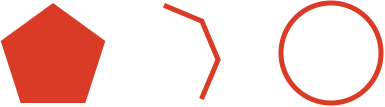
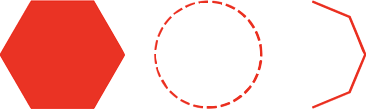
update polygon

diff --git a/src/js/diagram/DiagramPrimitives/DiagramPrimitives.js b/src/js/diagram/DiagramPrimitives/DiagramPrimitives.js
@@ -487,7 +487,6 @@ export type OBJ_LineStyle = {
  *
  * @property {number} [sides] (`4`)
  * @property {number} [radius] (`1`)
- * @property {number} [width] line width - line will be drawn on inside of radius (`0.01`)
  * @property {number} [rotation] shape rotation during vertex definition
  * (different to a rotation step in a trasform) (`0`)
  * @property {TypeParsablePoint} [offset] shape center offset from origin
@@ -501,63 +500,68 @@ export type OBJ_LineStyle = {
  * center. This is different to position or transform as these translate the
  * vertices on each draw. (`[0, 0]`)
  * @property {OBJ_LineStyle} [line] line style options
- * @property {boolean | 'tris'} [fill] `true` will fill polygon with efficient
- * fan vertices. `'tris'` will fill polygon with less efficient separate
- * triangle vertices. Use `'tris'` if copying a filled polygon with
- * copy steps (`false`)
  * @property {Array<CPY_Step | string> | CPY_Step} [copy] make copies of
  * the polygon if defined. If using fill and copying, use `fill`: `'tris'`
  * @property {Array<number>} [color] (`[1, 0, 0, 1`])
  * @property {OBJ_Texture} [texture] Override color with a texture
- * @property {number | OBJ_PulseScale} [pulse] set the default pulse scale
  * @property {Point} [position] convenience to override Transform translation
  * @property {Transform} [transform] (`Transform('polygon').standard()`)
+ * @property {number | OBJ_PulseScale} [pulse] set the default pulse scale
  * @example
- * // Simple filled polygon
- * diagram.addElement(
- *   {
- *     name: 'p',
- *     method: 'polygon',
- *     options: {
- *       radius: 0.5,
- *       fill: true,
- *       sides: 6,
- *     },
+ * // Simple filled hexagon
+ * diagram.addElement({
+ *   name: 'hexagon',
+ *   method: 'polygon',
+ *   options: {
+ *     sides: 6,
+ *     radius: 0.5,
  *   },
- * );
+ * });
+ *
  * @example
- * // Quarter circle
- * diagram.addElement(
- *   {
- *     name: 'p',
- *     method: 'polygon',
- *     options: {
- *       radius: 0.4,
- *       sides: 100,
- *       width: 0.08,
- *       angleToDraw: Math.PI / 2,
- *       color: [1, 1, 0, 1],
- *     },
+ * // Circle from dashed line
+ * const circ = diagram.create.polygon({
+ *   sides: 100,
+ *   radius: 0.5,
+ *   line: {
+ *     width: 0.03,
+ *     dash: [0.1, 0.03 ],
  *   },
- * );
+ * });
+ * diagram.elements.add('circle', circ);
+ *
+ * @example
+ * // Half octagon rotated
+ * diagram.addElement({
+ *   name: 'halfOctagon',
+ *   method: 'polygon',
+ *   options: {
+ *     sides: 8,
+ *     radius: 0.5,
+ *     angleToDraw: Math.PI,
+ *     line: {
+ *       width: 0.03,
+ *     },
+ *     direction: -1,
+ *     rotation: Math.PI / 2,
+ *   },
+ * });
  */
 export type OBJ_Polygon = {
   sides?: number,
   radius?: number,
-  width?: number,
   rotation?: number,
-  direction?: -1 | 1,
-  line?: OBJ_LineStyle,
+  offset?: TypeParsablePoint,
   sidesToDraw?: number,
   angleToDraw?: number,
-  color?: Array<number>,
-  fill?: boolean | 'tris',
-  transform?: Transform,
-  position?: TypeParsablePoint,
-  texture?: OBJ_Texture,
+  direction?: -1 | 1,
+  line?: OBJ_LineStyle,
   copy?: Array<CPY_Step | string> | CPY_Step,
+  color?: Array<number>,
+  texture?: OBJ_Texture,
+  position?: TypeParsablePoint,
+  transform?: Transform,
   pulse?: number | OBJ_PulseScale,
-  offset?: TypeParsablePoint,
 };
 
 /**
@@ -1658,31 +1662,24 @@ export default class DiagramPrimitives {
       radius: 1,
       sides: 4,
       direction: 1,
-      // sidesToDraw: 4,
       rotation: 0,
-      width: 0.01,
-      // line: {
-      //   widthIs: 'mid',
-      // },
-      // angle: Math.PI * 2,
       offset: new Point(0, 0),
       transform: new Transform('polygon').standard(),
       touchableLineOnly: false,
     };
-    let radiusMod = 0;
+    // let radiusMod = 0;
     const optionsToUse = processOptions(defaultOptions, ...options);
 
-    if (
-      optionsToUse.line == null
-      || (optionsToUse.line != null && optionsToUse.line.widthIs == null)
-    ) {
-      if (optionsToUse.line == null) {
-        optionsToUse.line = {};
-      }
-      optionsToUse.line.widthIs = 'mid';
-      const sideAngle = Math.PI * 2 / optionsToUse.sides;
-      const theta = (Math.PI - sideAngle) / 2;
-      radiusMod = optionsToUse.width / 2 / Math.sin(theta);
+    if (optionsToUse.line != null) {
+      optionsToUse.line = joinObjects({}, {
+        width: 0.01,
+        widthIs: 'mid',
+      }, optionsToUse.line);
+    }
+
+    // deprecated - to help migration from old polygon
+    if (optionsToUse.line == null && optionsToUse.width != null) {
+      optionsToUse.line.width = optionsToUse.width;
     }
 
     parsePoints(optionsToUse, ['offset']);
@@ -1695,58 +1692,36 @@ export default class DiagramPrimitives {
     if (optionsToUse.sidesToDraw == null) {
       optionsToUse.sidesToDraw = optionsToUse.sides;
     }
-    if (optionsToUse.fill === true) {
-      const fan = getFanTrisPolygon(
-        optionsToUse.radius, optionsToUse.rotation, optionsToUse.offset,
-        optionsToUse.sides, optionsToUse.sidesToDraw, optionsToUse.direction,
-      );
-      element = this.generic(optionsToUse, {
-        drawType: 'fan',
-        points: fan, // $FlowFixMe
-        border: [[...fan.slice(1, -1)]],
-      });
-      element.custom.update = (updateOptions) => {
-        const o = joinObjects({}, optionsToUse, updateOptions);
-        const points = getFanTrisPolygon(
-          o.radius, o.rotation, o.offset,
-          o.sides, o.sidesToDraw, o.direction,
-        );
-        element.drawingObject.change(
-          points, [[...points.slice(1, -1)]], [],
-        );
-      };
-    } else if (optionsToUse.fill === 'tris') {
+    const outline = getPolygonPoints(
+      optionsToUse.radius, optionsToUse.rotation, optionsToUse.offset,
+      optionsToUse.sides, optionsToUse.sidesToDraw, optionsToUse.direction,
+    );
+
+    if (optionsToUse.line == null) {
       const tris = getTrisFillPolygon(
-        optionsToUse.radius, optionsToUse.rotation, optionsToUse.offset,
-        optionsToUse.sides, optionsToUse.sidesToDraw, optionsToUse.direction,
+        optionsToUse.offset, outline, optionsToUse.sides,
+        optionsToUse.sidesToDraw,
       );
-      const border = getPolygonPoints(
-        optionsToUse.radius, optionsToUse.rotation, optionsToUse.offset,
-        optionsToUse.sides, optionsToUse.sidesToDraw, optionsToUse.direction,
-      );
+
       element = this.generic(optionsToUse, {
         points: tris, // $FlowFixMe
-        border: [border],
+        border: [outline],
       });
       element.custom.update = (updateOptions) => {
         const o = joinObjects({}, optionsToUse, updateOptions);
-        const points = getTrisFillPolygon(
+        const udpatedBorder = getPolygonPoints(
           o.radius, o.rotation, o.offset,
           o.sides, o.sidesToDraw, o.direction,
         );
-        const borderPoints = getPolygonPoints(
-          o.radius, o.rotation, o.offset,
-          o.sides, o.sidesToDraw, o.direction,
+        const updatedTris = getTrisFillPolygon(
+          o.offset, udpatedBorder,
+          o.sides, o.sidesToDraw,
         );
         element.drawingObject.change(
-          points, [borderPoints], [],
+          updatedTris, [udpatedBorder], [],
         );
       };
     } else {
-      const polygonPoints = getPolygonPoints(
-        optionsToUse.radius - radiusMod, optionsToUse.rotation, optionsToUse.offset,
-        optionsToUse.sides, optionsToUse.sidesToDraw, optionsToUse.direction,
-      );
       let border = 'line';
       let hole;
       if (optionsToUse.direction === 1) {
@@ -1759,7 +1734,7 @@ export default class DiagramPrimitives {
       }
       // console.log(polygonPoints)
       element = this.polyline(optionsToUse, optionsToUse.line, {
-        points: polygonPoints,
+        points: outline,
         close: optionsToUse.sides === optionsToUse.sidesToDraw,
         border,
         hole,
@@ -1775,11 +1750,11 @@ export default class DiagramPrimitives {
       // element.drawingObject.border = [simpleBorder];
       element.custom.update = (updateOptions) => {
         const o = joinObjects({}, optionsToUse, updateOptions);
-        const points = getPolygonPoints(
-          o.radius - radiusMod, o.rotation, o.offset,
+        const udpatedBorder = getPolygonPoints(
+          o.radius, o.rotation, o.offset,
           o.sides, o.sidesToDraw, o.direction,
         );
-        element.custom.updatePoints(points);
+        element.custom.updatePoints(udpatedBorder);
         // element.border = [points];
         simplifyBorder(element);
       };

diff --git a/examples/tester/index.js b/examples/tester/index.js
@@ -1,23 +1,15 @@
 const diagram = new Fig.Diagram({ limits: [-3, -3, 6, 6]});
 
 // Right angle triangle
-diagram.addElement({
-  name: 'g',
-  method: 'line',
-  options: {
-    p0: [0, 0],
-    p1: [0, 1],
-    width: 0.02,
-    arrows: {
-      width: 0.1,
-      height: 0.1,
-    },
-    label: {
-      text: 'Hello',
-      offset: 0.01,
-    }
+const circ = diagram.create.polygon({
+  sides: 100,
+  radius: 0.5,
+  line: {
+    width: 0.03,
+    dash: [0.1, 0.03 ],
   },
 });
+diagram.elements.add('circle', circ);
 
 // diagram.initialize();
 
@@ -57,7 +49,7 @@ diagram.addElement({
 //       yStep: 0.1,
 //       xStep: 0.1,
 //       color: [0.7, 0.7, 0.7, 1],
-//       width: 0.0005,
+//       line: { width: 0.001 },
 //     },
 //   },
 //   {
@@ -68,7 +60,7 @@ diagram.addElement({
 //       yStep: 0.5,
 //       xStep: 0.5,
 //       color: [0.8, 0.8, 0.8, 1],
-//       width: 0.002,
+//       line: { width: 0.004 }
 //     },
 //   },
 //   // {

diff --git a/src/js/diagram/DrawingObjects/Geometries/polygon/polygon.js b/src/js/diagram/DrawingObjects/Geometries/polygon/polygon.js
@@ -54,17 +54,11 @@ function getFanTrisPolygon(
 }
 
 function getTrisFillPolygon(
-  radius: number,
-  rotation: number,
-  offset: Point,
+  center: Point,
+  border: Array<Point>,
   sides: number,
   sidesToDraw: number,
-  direction: -1 | 1,
 ): Array<Point> {
-  const border = getPolygonPoints(
-    radius, rotation, offset, sides, sidesToDraw, direction,
-  );
-  const center = offset._dup();
   const points = [];
   for (let i = 1; i < border.length; i += 1) {
     points.push(center._dup());
